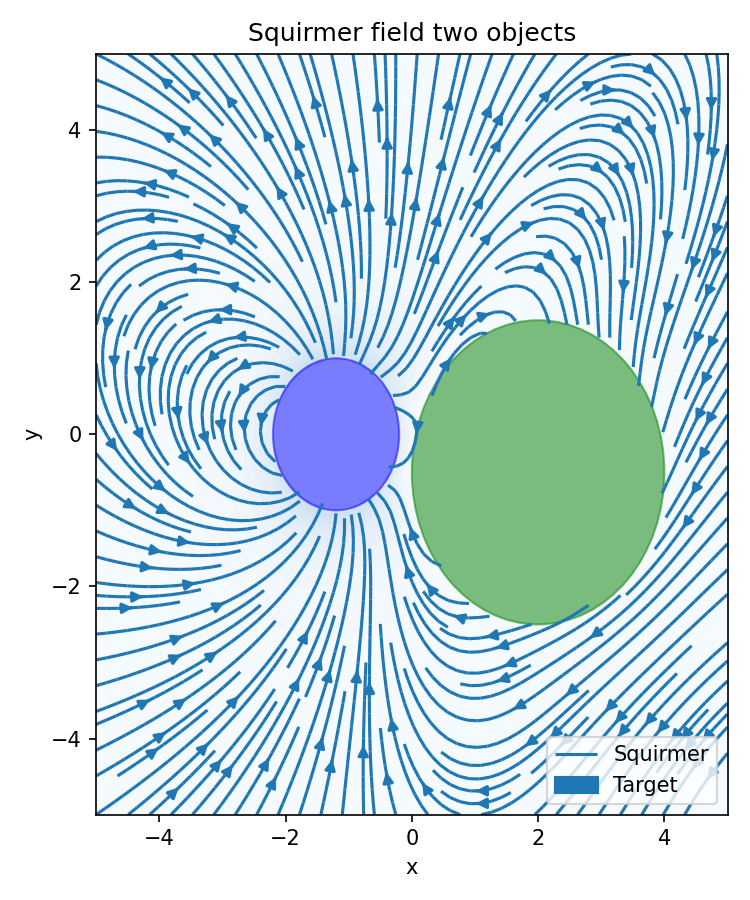
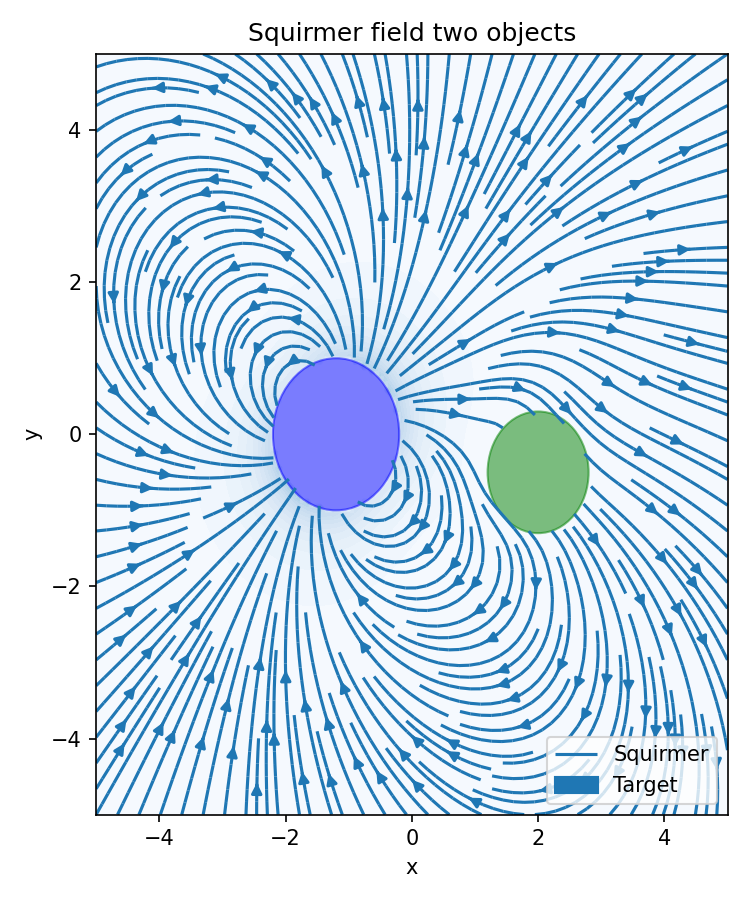
colorbar

diff --git a/Fluid/bem_two_objects.py b/Fluid/bem_two_objects.py
@@ -1,6 +1,7 @@
 import numpy as np
 import field_velocity as fv
 import bem
+from mpl_toolkits.axes_grid1 import make_axes_locatable
 
 
 def difference_vectors(x_1, x_2=None):
@@ -228,16 +229,16 @@ if __name__ == "__main__":
         N1 = 500
         max_mode = 3
         squirmer_radius = 1
-        radius_obj2 = 2
-        x1_center = np.array([-1.2, 0, 0])  # NOTE feltet afhænger af hvor man sætter squirmer!
-        x2_center = np.array([2, -0.5, 0])
+        radius_obj2 = 0.8
+        x1_center = np.array([-1, 0, 0])  # NOTE feltet afhænger af hvor man sætter squirmer!
+        x2_center = np.array([2, 0, 0])
         B = np.zeros((max_mode+1, max_mode+1))
         B_tilde = np.zeros_like(B)
         C = np.zeros_like(B)
         C_tilde = np.zeros_like(B)
         #B_tilde[2, 2] = -1
         B_tilde[1,1]=1
-        #B[1,1] = -1
+        B[1,1] = 1
         # Force
         force_with_condition, x1_surface, x2_surface = force_surface_two_objects(N1, max_mode, squirmer_radius, radius_obj2, x1_center, x2_center, np.array([B, B_tilde, C, C_tilde]), eps, viscosity, lab_frame=True, return_points=True)
         translation = force_with_condition[-12: -6]
@@ -277,9 +278,9 @@ if __name__ == "__main__":
         ax.contourf(X, Y, velocity_magnitude,  vmin=0, vmax=6, levels=16, cmap='Blues')
         ax.set(xlabel="x", ylabel="y", title="Squirmer field two objects")
             # Colorbars  
-        #divider = make_axes_locatable(ax3)
+        #divider = make_axes_locatable(ax)
         #cax = divider.append_axes("right", size="5%", pad=0.05)
-        #ax.colorbar()
+        plt.colorbar()
 
         # Add circles
         circle_obj1 = plt.Circle(x1_center[:2], squirmer_radius, color="b", alpha=0.5)  # No need for z component
